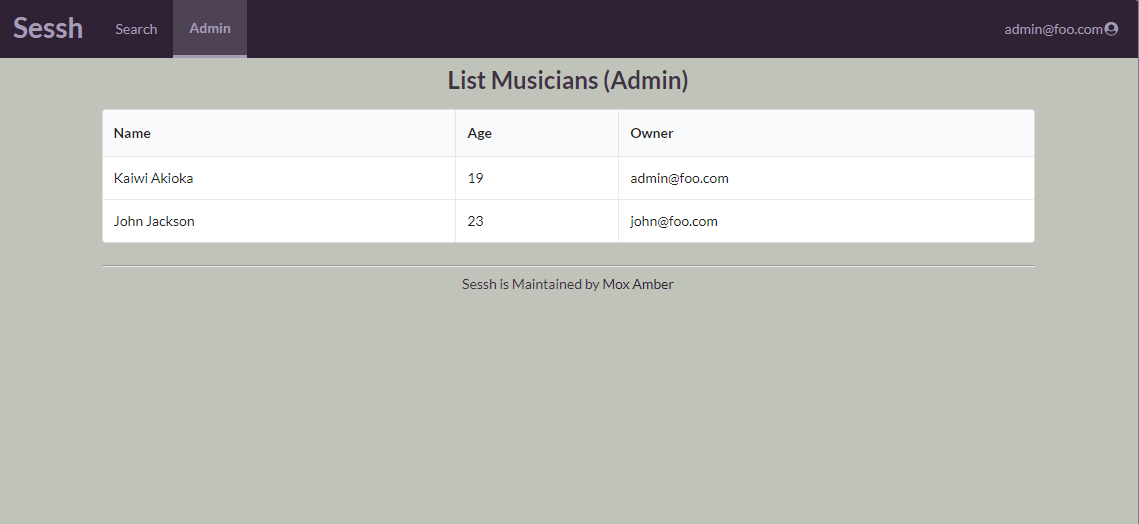
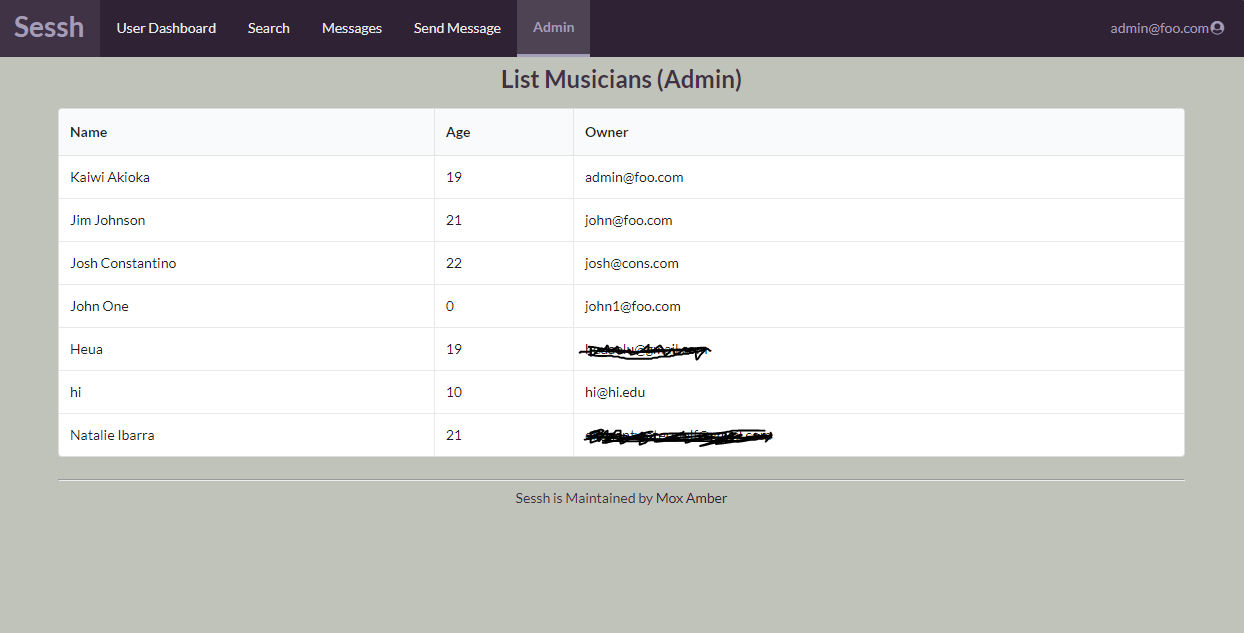
Updated home page.

diff --git a/index.md b/index.md
@@ -70,10 +70,15 @@ edit profile page.
 
 ### Search Page
 The search page lets users discover and filter musicians based on their preferences.
-
 ![](doc/search-page.PNG)
 
-![](doc/search-page-filter.PNG)
+### Messaging
+The users can message each other through the send messages page
+![](doc/send-message.PNG)
+
+and check the received messages on the messages page.
+![](doc/messages.PNG)
+
 
 ### Signing Out
 A user can sign out from the same dropdown the used to log in and will be taken
